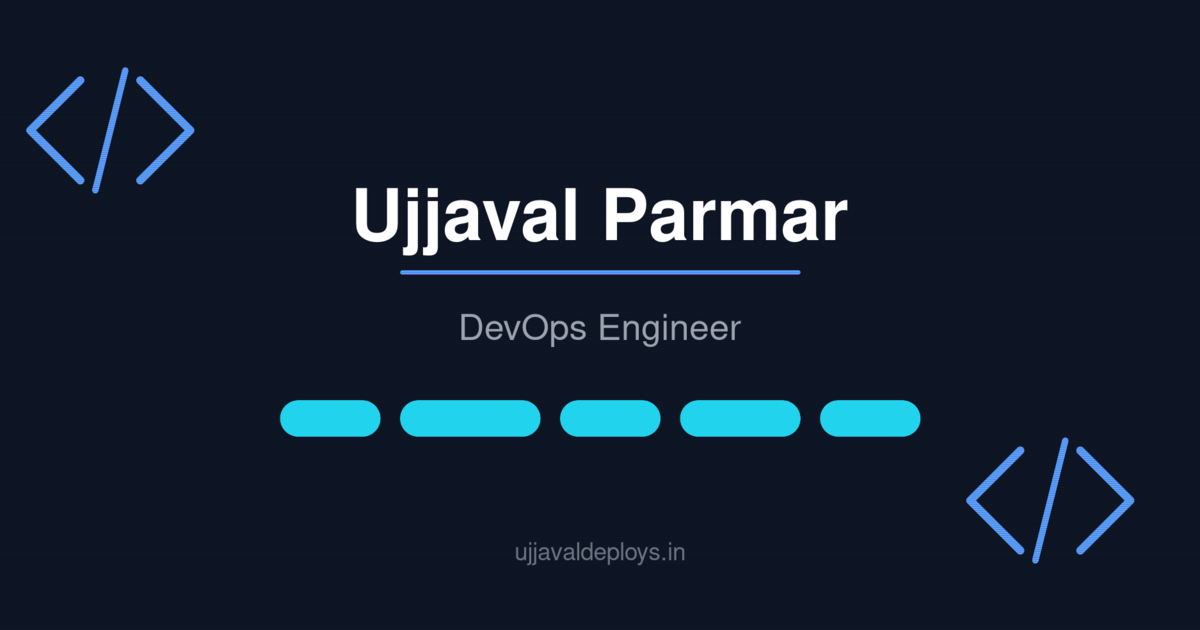
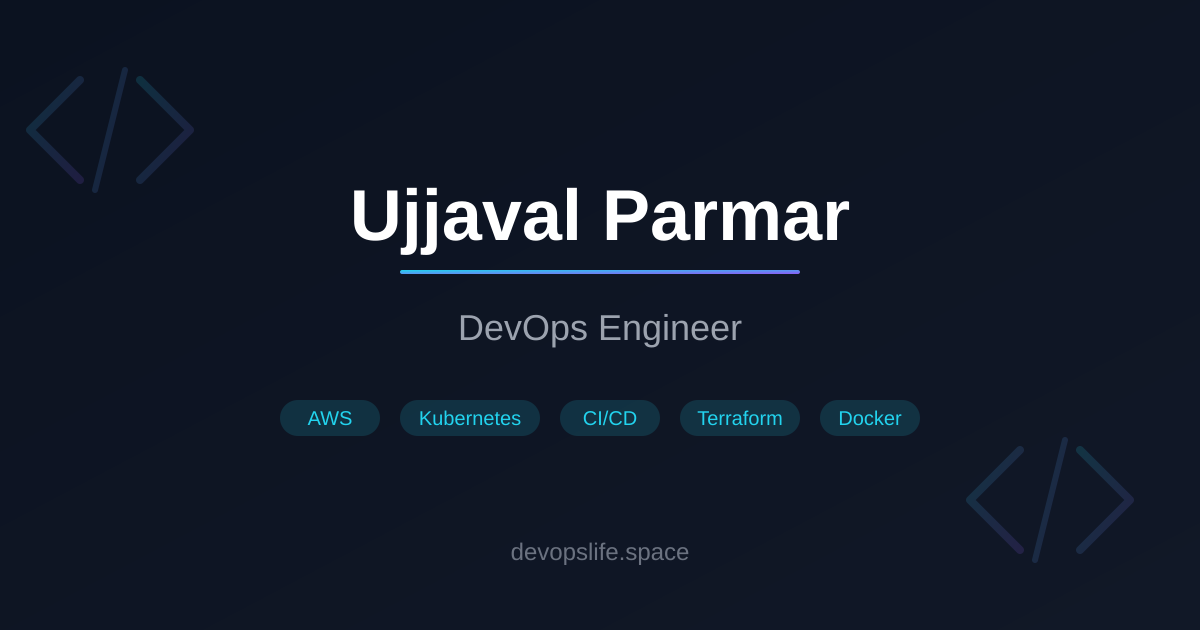
chore: move site to devopslife.space
Swapped the old ujjavaldeploys.in default out of every place it was
hardcoded as the NEXT_PUBLIC_SITE_URL fallback - metadataBase, robots,
sitemap, RSS feed and the JSON-LD blocks on the home and blog pages.

The OG image had the URL baked into it, so regenerated the PNG from the
updated SVG.

Still need to point the domain at the project in Vercel and update
NEXT_PUBLIC_SITE_URL there. Old domain redirect has to be set up in the
dashboard too, vercel.json only handles paths.

diff --git a/app/blog/[slug]/page.jsx b/app/blog/[slug]/page.jsx
@@ -32,7 +32,7 @@ export async function generateMetadata({ params }) {
     return { title: 'Post Not Found' }
   }
 
-  const siteUrl = process.env.NEXT_PUBLIC_SITE_URL || 'https://ujjavaldeploys.in'
+  const siteUrl = process.env.NEXT_PUBLIC_SITE_URL || 'https://devopslife.space'
   const imageUrl = sanityImageUrl(post.featuredImage)
   const canonicalUrl = `${siteUrl}/blog/${post.slug.current}`
 
@@ -98,7 +98,7 @@ export default async function BlogPostPage({ params }) {
     notFound()
   }
 
-  const siteUrl = process.env.NEXT_PUBLIC_SITE_URL || 'https://ujjavaldeploys.in'
+  const siteUrl = process.env.NEXT_PUBLIC_SITE_URL || 'https://devopslife.space'
   const imageUrl = sanityImageUrl(post.featuredImage)
   const readingTime = estimateReadingTime(post.content)
 

diff --git a/app/blog/page.jsx b/app/blog/page.jsx
@@ -47,7 +47,7 @@ function estimateReadingTime(description) {
 
 export default async function BlogPage() {
   const posts = await getAllPosts()
-  const siteUrl = process.env.NEXT_PUBLIC_SITE_URL || 'https://ujjavaldeploys.in'
+  const siteUrl = process.env.NEXT_PUBLIC_SITE_URL || 'https://devopslife.space'
 
   const blogListJsonLd = {
     '@context': 'https://schema.org',

diff --git a/app/layout.jsx b/app/layout.jsx
@@ -8,7 +8,7 @@ const inter = Inter({
 })
 
 export const metadata = {
-  metadataBase: new URL(process.env.NEXT_PUBLIC_SITE_URL || 'https://ujjavaldeploys.in'),
+  metadataBase: new URL(process.env.NEXT_PUBLIC_SITE_URL || 'https://devopslife.space'),
   title: {
     default: 'Ujjaval Parmar | DevOps Engineer',
     template: '%s | Ujjaval Parmar',

diff --git a/app/blog/rss.xml/route.js b/app/blog/rss.xml/route.js
@@ -10,7 +10,7 @@ function escapeXml(unsafe = '') {
 }
 
 export async function GET() {
-  const siteUrl = process.env.NEXT_PUBLIC_SITE_URL || 'https://ujjavaldeploys.in'
+  const siteUrl = process.env.NEXT_PUBLIC_SITE_URL || 'https://devopslife.space'
   const posts = await getAllPosts()
 
   const itemsXml = (posts || [])

diff --git a/app/sitemap.js b/app/sitemap.js
@@ -1,7 +1,7 @@
 import { getAllPosts } from '../src/lib/sanity'
 
 export default async function sitemap() {
-  const siteUrl = process.env.NEXT_PUBLIC_SITE_URL || 'https://ujjavaldeploys.in'
+  const siteUrl = process.env.NEXT_PUBLIC_SITE_URL || 'https://devopslife.space'
 
   // Dynamic blog post pages
   let posts = []

diff --git a/app/page.jsx b/app/page.jsx
@@ -7,7 +7,7 @@ export const metadata = {
 }
 
 export default function Page() {
-  const siteUrl = process.env.NEXT_PUBLIC_SITE_URL || 'https://ujjavaldeploys.in'
+  const siteUrl = process.env.NEXT_PUBLIC_SITE_URL || 'https://devopslife.space'
 
   // JSON-LD Person Schema for SEO
   const personJsonLd = {

diff --git a/app/robots.js b/app/robots.js
@@ -1,5 +1,5 @@
 export default function robots() {
-  const siteUrl = process.env.NEXT_PUBLIC_SITE_URL || 'https://ujjavaldeploys.in'
+  const siteUrl = process.env.NEXT_PUBLIC_SITE_URL || 'https://devopslife.space'
 
   return {
     rules: [

diff --git a/README.md b/README.md
@@ -2,7 +2,7 @@
 
 > Because even DevOps engineers need a place to `kubectl describe` themselves.
 
-**Live:** [ujjavaldeploys.in](https://ujjavaldeploys.in)
+**Live:** [devopslife.space](https://devopslife.space)
 
 ---
 
